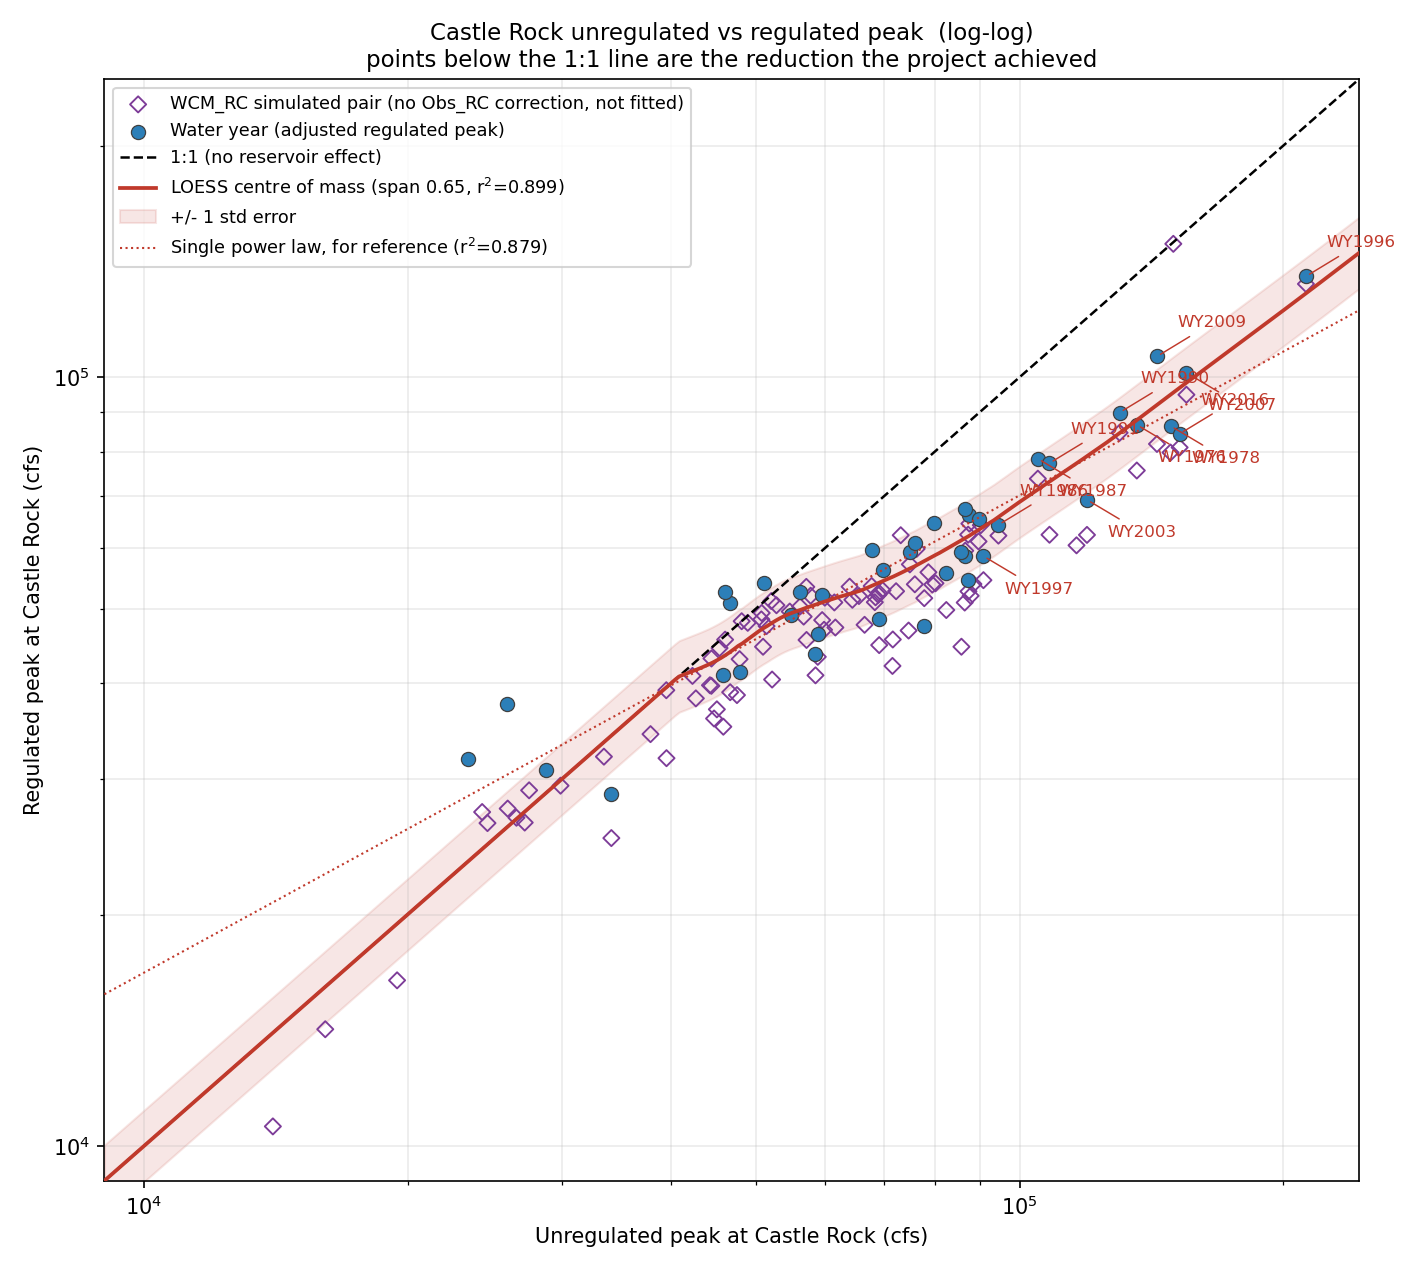
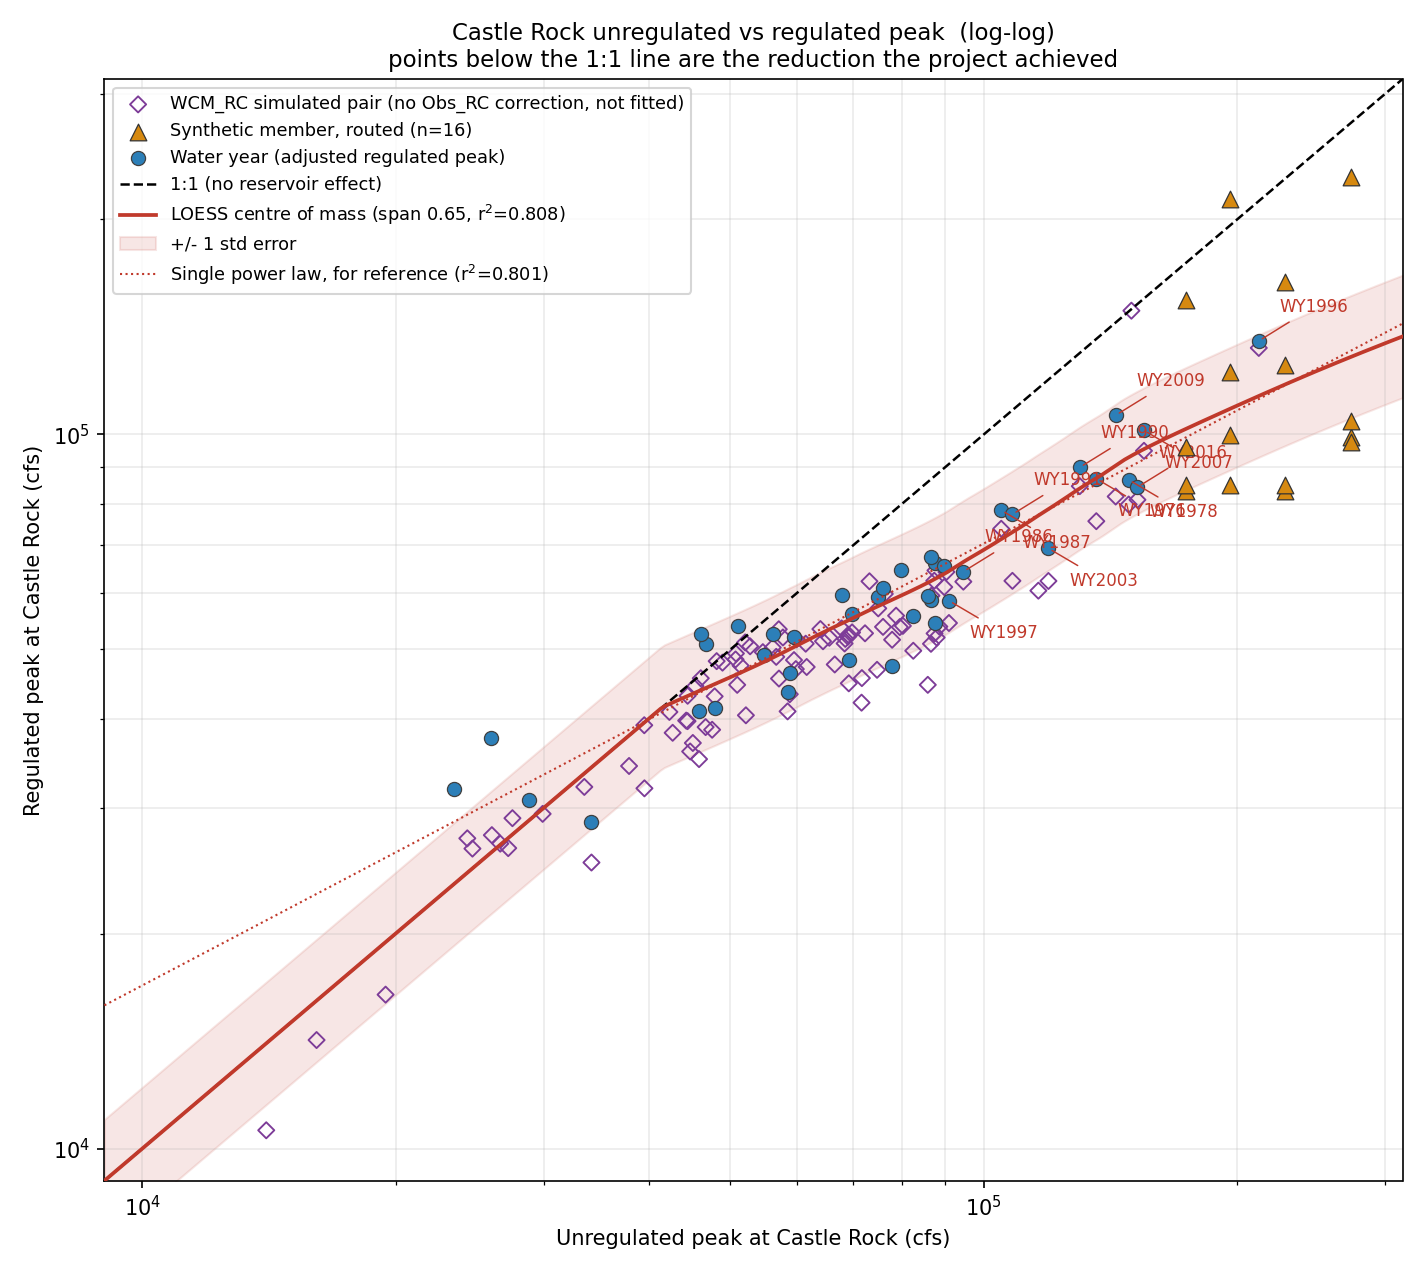
Unreg_Reg_Curve: synthetics drive the regulated line, plus a clean lines-only figure
- Loads synthetic_results.csv and draws the routed members on both the scatter
  and the frequency plot as filled orange triangles, with their unregulated
  targets as open triangles. The unregulated side is target_unreg_peak_cfs --
  the peak the member was BUILT to, so it sits on the unregulated curve by
  construction -- and the regulated side is what ResSim routed it to.
- FIT_SOURCES replaces INCLUDE_WCM_IN_FIT and separates DRAWN from FITTED for
  all three point sets. Default {adjusted: True, wcm_rc: False, synthetic: True}:
  the pre-adjustment WCM_RC points are shown but never move the line, since no
  Obs_RC data exists behind them to correct their bias. The run header prints a
  checklist of which sets moved the line and how many points each contributed.
- The synthetics extend the supported range from 197,760 to 273,479 cfs, so the
  0.5% and 0.2% AEPs are now inside the data rather than extrapolated. 3 of 16
  AEPs remain beyond it, down from 6.
- New unreg_reg_final_curves.png: regulated and unregulated lines, the error
  band and the 2009 curve, no scatter -- the report figure.
- Outputs not committed; adjusted_peaks.csv still needs step 20 re-run to clear
  the stale-dataset warning.

diff --git a/CAS_Reg_Unreg/src/#Unreg_Reg_Curve.py b/CAS_Reg_Unreg/src/#Unreg_Reg_Curve.py
@@ -61,8 +61,8 @@ built from the difference between the WCM_RC and Obs_RC runs, and where there
 is no Obs_RC data there is no correction to apply. They are simulated flows
 carrying whatever bias the model carries, with nothing observed to anchor them.
 Treat them as context for the shape of the relationship, not as evidence for
-its position. Set INCLUDE_WCM_IN_FIT = True to fit them anyway -- and say so in
-the memo if you do.
+its position. FIT_SOURCES["wcm_rc"] = True fits them anyway -- and say so in the
+memo if you do.
 
 The same reg-above-unreg screen used in #Adjusted_Peak_Record.py is applied to
 them, at the same threshold, so a non-physical simulated pair is not shown as
@@ -108,9 +108,36 @@ ENFORCE_SCREENING = True
 WCM_WY_CSV = r"../output/diagnostics/ResSim_WCM_RC_reg_vs_unreg_wy.csv"
 WCM_PART_B = "CastleRock_NWS"
 SHOW_WCM_POINTS = True
-# Fit them as well? Default False -- there is no Obs_RC data behind them, so
-# there is no adjustment available to correct them.
-INCLUDE_WCM_IN_FIT = False
+
+# --- synthetic ResSim results ------------------------------------------------
+# The routed synthetic members: each was BUILT to an unregulated peak taken off
+# the unregulated frequency curve, then routed through ResSim. That makes them
+# the only (unreg, reg) pairs that exist above the observed record, which is
+# exactly the range the regulated curve has to be drawn through.
+SYNTH_RESULTS_CSV = r"../output/synthetic_results.csv"
+SHOW_SYNTH_POINTS = True
+# Unregulated side: the peak the member was scaled to hit, which is a point on
+# the unregulated frequency curve by construction. Regulated side: what ResSim
+# routed it to.
+SYNTH_UNREG_COL = "target_unreg_peak_cfs"
+SYNTH_REG_COL = "reg_peak"
+# Restrict to one scaling method when both were run.
+SYNTH_SCALING_METHOD = "volume_matched"
+
+# --- WHICH POINTS DRAW THE REGULATED LINE ------------------------------------
+# Showing a point and fitting a point are different decisions, so they are
+# separate settings. Everything switched on above is DRAWN; only what is
+# switched on here MOVES THE LINE.
+#
+#   "adjusted"  the historic adjusted record -- observed peaks corrected by the
+#               WCM_RC/Obs_RC difference, screened. Real events, real routing.
+#   "wcm_rc"    the raw WCM_RC simulated pairs. These are the PRE-ADJUSTMENT
+#               points: no Obs_RC data exists behind them, so no correction was
+#               ever applied and their position carries the model's bias. Shown
+#               for shape, never used to place the line.
+#   "synthetic" the routed synthetic members. The only evidence above the
+#               observed record.
+FIT_SOURCES = {"adjusted": True, "wcm_rc": False, "synthetic": True}
 # Restrict them to the regulated era (e.g. 1974) or None for the whole record.
 WCM_FIRST_WY = None
 # Apply the same reg-above-unreg screen used on the adjusted record.
@@ -178,7 +205,11 @@ FLOW_LIMITS = (10000.0, 400000.0)
 C_UNREG = "#2c7fb8"
 C_REG = "#c0392b"
 C_WCM = "#7d3c98"          # WCM_RC simulated pairs -- deliberately distinct
+C_SYNTH = "#d68910"        # routed synthetic members
 C_2009 = "#117a65"
+
+# The clean figure: regulated and unregulated lines only, no scatter.
+MAKE_FINAL_CURVE_PLOT = True
 
 # ----------------------------------------------------------------------------
 
@@ -354,6 +385,56 @@ def interp_2009(aep, table_2009):
     return 10.0 ** out
 
 
+def load_synthetic_points(csv_path):
+    """Routed synthetic members as (unreg, reg) pairs.
+
+    The unregulated side is the peak the member was BUILT to hit, not a peak
+    read back out of a simulation, so it is exact by construction and sits on
+    the unregulated frequency curve. The regulated side is what ResSim did with
+    it.
+    """
+    if not (SHOW_SYNTH_POINTS and os.path.isfile(csv_path)):
+        if SHOW_SYNTH_POINTS:
+            print("Synthetic : not found: %s -- points not drawn" % csv_path)
+        return None
+    table = pd.read_csv(csv_path)
+    if SYNTH_SCALING_METHOD and "scaling_method" in table.columns:
+        table = table[table["scaling_method"] == SYNTH_SCALING_METHOD]
+    for col in (SYNTH_UNREG_COL, SYNTH_REG_COL):
+        if col not in table.columns:
+            print("Synthetic : %s has no '%s' column -- points not drawn"
+                  % (os.path.basename(csv_path), col))
+            return None
+    table = table.dropna(subset=[SYNTH_UNREG_COL, SYNTH_REG_COL]).copy()
+    table = table[(table[SYNTH_UNREG_COL] > 0) & (table[SYNTH_REG_COL] > 0)]
+    return table.reset_index(drop=True)
+
+
+def assemble_fit_points(data, wcm, synth):
+    """Stack the point sets that are switched on in FIT_SOURCES.
+
+    Returns the arrays and a per-source count, so the log states exactly what
+    moved the line rather than leaving it to be inferred from the plot.
+    """
+    xs, ys, used = [], [], {}
+    if FIT_SOURCES.get("adjusted", False) and data is not None and len(data):
+        xs.append(np.asarray(data[UNREG_COL].values, dtype=float))
+        ys.append(np.asarray(data["reg_peak"].values, dtype=float))
+        used["adjusted"] = len(data)
+    if FIT_SOURCES.get("wcm_rc", False) and wcm is not None and len(wcm):
+        xs.append(np.asarray(wcm["unreg_peak"].values, dtype=float))
+        ys.append(np.asarray(wcm["reg_peak"].values, dtype=float))
+        used["wcm_rc"] = len(wcm)
+    if FIT_SOURCES.get("synthetic", False) and synth is not None and len(synth):
+        xs.append(np.asarray(synth[SYNTH_UNREG_COL].values, dtype=float))
+        ys.append(np.asarray(synth[SYNTH_REG_COL].values, dtype=float))
+        used["synthetic"] = len(synth)
+    if not xs:
+        raise SystemExit("FIT_SOURCES leaves nothing to fit -- switch at least "
+                         "one point set on.")
+    return np.concatenate(xs), np.concatenate(ys), used
+
+
 def annotate_points(ax, x, y, labels):
     """Callouts placed alternately above and below to reduce collisions."""
     for i, (xi, yi, text) in enumerate(zip(x, y, labels)):
@@ -363,7 +444,7 @@ def annotate_points(ax, x, y, labels):
                     arrowprops=dict(arrowstyle="-", color=C_REG, lw=0.7))
 
 
-def plot_scatter(data, fit, wcm, stem):
+def plot_scatter(data, fit, wcm, synth, stem):
     """Arithmetic and log-log scatter, each with a 1:1 line and callouts."""
     x = data[UNREG_COL].values
     y = data["reg_peak"].values
@@ -378,11 +459,19 @@ def plot_scatter(data, fit, wcm, stem):
         if wcm is not None and len(wcm):
             ax.scatter(wcm["unreg_peak"], wcm["reg_peak"], s=30, marker="D",
                        facecolor="none", edgecolor=C_WCM, lw=0.9, zorder=2,
-                       label="WCM_RC simulated pair (no Obs_RC correction, "
-                             "not fitted)" if not INCLUDE_WCM_IN_FIT
-                             else "WCM_RC simulated pair (fitted)")
+                       label="WCM_RC simulated pair (no Obs_RC correction%s)"
+                             % ("" if FIT_SOURCES.get("wcm_rc") else ", not fitted"))
             lo += [wcm["unreg_peak"].min(), wcm["reg_peak"].min()]
             hi += [wcm["unreg_peak"].max(), wcm["reg_peak"].max()]
+        if synth is not None and len(synth):
+            ax.scatter(synth[SYNTH_UNREG_COL], synth[SYNTH_REG_COL], s=64,
+                       marker="^", facecolor=C_SYNTH, edgecolor="0.2", lw=0.6,
+                       zorder=4,
+                       label="Synthetic member, routed (n=%d)%s"
+                             % (len(synth),
+                                "" if FIT_SOURCES.get("synthetic") else ", not fitted"))
+            lo += [synth[SYNTH_UNREG_COL].min(), synth[SYNTH_REG_COL].min()]
+            hi += [synth[SYNTH_UNREG_COL].max(), synth[SYNTH_REG_COL].max()]
 
         ax.scatter(x, y, s=46, facecolor=C_UNREG, edgecolor="0.25", lw=0.6,
                    zorder=3, label="Water year (adjusted regulated peak)")
@@ -445,7 +534,7 @@ def aep_from_unreg_curve(values, unreg_curve, aep_values):
                      aep_values[order])
 
 
-def plot_frequency(freq, data, fit, wcm, table_2009, stem):
+def plot_frequency(freq, data, fit, wcm, synth, table_2009, stem):
     """Unregulated and inferred regulated frequency curves, SSP idiom."""
     fig, ax = plt.subplots(figsize=(11.5, 8.8))
 
@@ -501,6 +590,18 @@ def plot_frequency(freq, data, fit, wcm, table_2009, stem):
                     mfc="none", mec=C_WCM, mew=1.0, zorder=5,
                     label="WCM_RC simulated regulated peaks "
                           "(no Obs_RC correction)")
+        # --- routed synthetics, at the AEP their unreg target came from ------
+        if synth is not None and len(synth):
+            aep_s = aep_from_unreg_curve(synth[SYNTH_UNREG_COL].values,
+                                         unreg_curve, aep_values)
+            zs = stats.norm.ppf(1.0 - np.clip(aep_s, 1e-6, 1 - 1e-6))
+            ax.plot(zs, synth[SYNTH_REG_COL].values, ls="none", marker="^",
+                    ms=7, mfc=C_SYNTH, mec="0.2", mew=0.6, zorder=7,
+                    label="Synthetic members, routed%s"
+                          % ("" if FIT_SOURCES.get("synthetic") else " (not fitted)"))
+            ax.plot(zs, synth[SYNTH_UNREG_COL].values, ls="none", marker="^",
+                    ms=5, mfc="none", mec=C_SYNTH, mew=0.9, zorder=6,
+                    label="Synthetic unregulated targets (on the curve)")
     else:
         uv, ua = weibull_plotting_positions(data[UNREG_COL].values)
         rv, ra = weibull_plotting_positions(data["reg_peak"].values)
@@ -553,6 +654,46 @@ def plot_frequency(freq, data, fit, wcm, table_2009, stem):
     fig.savefig("%s_frequency.png" % stem, dpi=150)
     plt.close(fig)
     return reg_curve
+
+
+def plot_final_curves(freq, fit, table_2009, stem):
+    """The adopted figure: regulated and unregulated lines, nothing else.
+
+    No scatter. Everything that went into placing these two lines is on
+    unreg_reg_frequency.png; this is the one that goes in the report, where the
+    points are a distraction from the result.
+    """
+    fig, ax = plt.subplots(figsize=(10.5, 8.2))
+    aep_values = freq["AEP"].values
+    z = stats.norm.ppf(1.0 - aep_values)
+    unreg_curve = freq[FREQ_VALUE_COL].values
+    reg_curve = apply_transform(fit, unreg_curve)
+
+    ax.plot(z, unreg_curve, color=C_UNREG, lw=2.6, zorder=4,
+            label="Unregulated")
+    ax.plot(z, reg_curve, color=C_REG, lw=2.6, zorder=4, label="Regulated")
+    band = 10 ** fit["se_dex"]
+    ax.fill_between(z, reg_curve / band, reg_curve * band, color=C_REG,
+                    alpha=0.13, zorder=1, label="Regulated, +/- 1 std error")
+    if table_2009 is not None and len(table_2009):
+        ax.plot(stats.norm.ppf(1.0 - table_2009["AEP"].values),
+                table_2009["cfs"].values, color=C_2009, lw=1.7, ls="--",
+                zorder=3, label=CURVE_2009_LABEL)
+
+    ax.set_yscale("log")
+    ax.set_ylim(FLOW_LIMITS)
+    probability_axis(ax, AEP_TICKS, AEP_LIMITS)
+    ax.yaxis.set_major_locator(LogLocator(base=10, subs=(1.0, 2.0, 3.0, 5.0)))
+    ax.yaxis.set_major_formatter(FuncFormatter(lambda v, p: format(int(v), ",")))
+    ax.grid(which="major", alpha=0.45, lw=0.8)
+    ax.grid(which="minor", alpha=0.2, lw=0.5)
+    ax.set_ylabel("Peak flow (cfs)")
+    ax.set_title("Castle Rock peak flow frequency, regulated and unregulated",
+                 fontsize=12)
+    ax.legend(loc="upper left", fontsize=9.5, framealpha=0.92)
+    fig.tight_layout()
+    fig.savefig("%s_final_curves.png" % stem, dpi=150)
+    plt.close(fig)
 
 
 def plot_2009_comparison(out, stem):
@@ -615,11 +756,13 @@ def main():
             print("            screened: %s"
                   % ", ".join("WY%d" % w for w in wcm_dropped["WY"]))
 
-    fit_x = data[UNREG_COL].values
-    fit_y = data["reg_peak"].values
-    if INCLUDE_WCM_IN_FIT and wcm is not None and len(wcm):
-        fit_x = np.concatenate([fit_x, wcm["unreg_peak"].values])
-        fit_y = np.concatenate([fit_y, wcm["reg_peak"].values])
+    synth = load_synthetic_points(SYNTH_RESULTS_CSV)
+    if synth is not None:
+        print("Synthetic : %d routed members, unregulated %s to %s cfs"
+              % (len(synth), format(int(synth[SYNTH_UNREG_COL].min()), ","),
+                 format(int(synth[SYNTH_UNREG_COL].max()), ",")))
+
+    fit_x, fit_y, used = assemble_fit_points(data, wcm, synth)
     fit = build_transform(fit_x, fit_y, TRANSFORM_METHOD)
 
     freq = pd.read_csv(UNREG_FREQ_CSV)
@@ -628,9 +771,16 @@ def main():
     table_2009 = curve_2009_frame()
 
     print("=" * 78)
-    print("Transform : %s   n = %d%s"
-          % (TRANSFORM_METHOD, fit["n"],
-             "  (WCM_RC pairs INCLUDED in the fit)" if INCLUDE_WCM_IN_FIT else ""))
+    print("Transform : %s   n = %d" % (TRANSFORM_METHOD, fit["n"]))
+    print("Line drawn from:")
+    for source in ("adjusted", "wcm_rc", "synthetic"):
+        on = FIT_SOURCES.get(source, False)
+        note = ("%d points" % used[source]) if source in used else (
+            "on, but no points available" if on else "shown only, does not move the line")
+        print("             [%s] %-10s %s" % ("x" if on else " ", source, note))
+    if not FIT_SOURCES.get("wcm_rc", False):
+        print("             wcm_rc is the pre-adjustment set -- no Obs_RC data")
+        print("             exists behind it, so it carries an uncorrected bias.")
     if TRANSFORM_METHOD == "loess":
         print("            LOESS span %.2f, pseudo r2 = %.4f" % (LOESS_SPAN, fit["r2"]))
         print("            power law for reference: reg = %.4g x unreg^%.4f, r2 = %.4f"
@@ -645,8 +795,11 @@ def main():
           % (ENFORCE_MONOTONIC, CLIP_TO_UNREG))
     print("=" * 78)
 
-    plot_scatter(data, fit, wcm, PLOT_STEM)
-    reg_curve = plot_frequency(freq, data, fit, wcm, table_2009, PLOT_STEM)
+    plot_scatter(data, fit, wcm, synth, PLOT_STEM)
+    reg_curve = plot_frequency(freq, data, fit, wcm, synth, table_2009,
+                               PLOT_STEM)
+    if MAKE_FINAL_CURVE_PLOT:
+        plot_final_curves(freq, fit, table_2009, PLOT_STEM)
 
     out = freq[["AEP", "Value", FREQ_VALUE_COL]].copy()
     out = out.rename(columns={"Value": "unreg_computed_cfs",
@@ -712,6 +865,8 @@ def main():
     print("Plots : %s_scatter_linear.png, %s_scatter_loglog.png,"
           % (PLOT_STEM, PLOT_STEM))
     print("        %s_frequency.png, %s_2009_comparison.png" % (PLOT_STEM, PLOT_STEM))
+    if MAKE_FINAL_CURVE_PLOT:
+        print("Final : %s_final_curves.png  (lines only, no points)" % PLOT_STEM)
     print("Table : %s/regulated_frequency_inferred.csv" % OUT_DIR)
 
 
